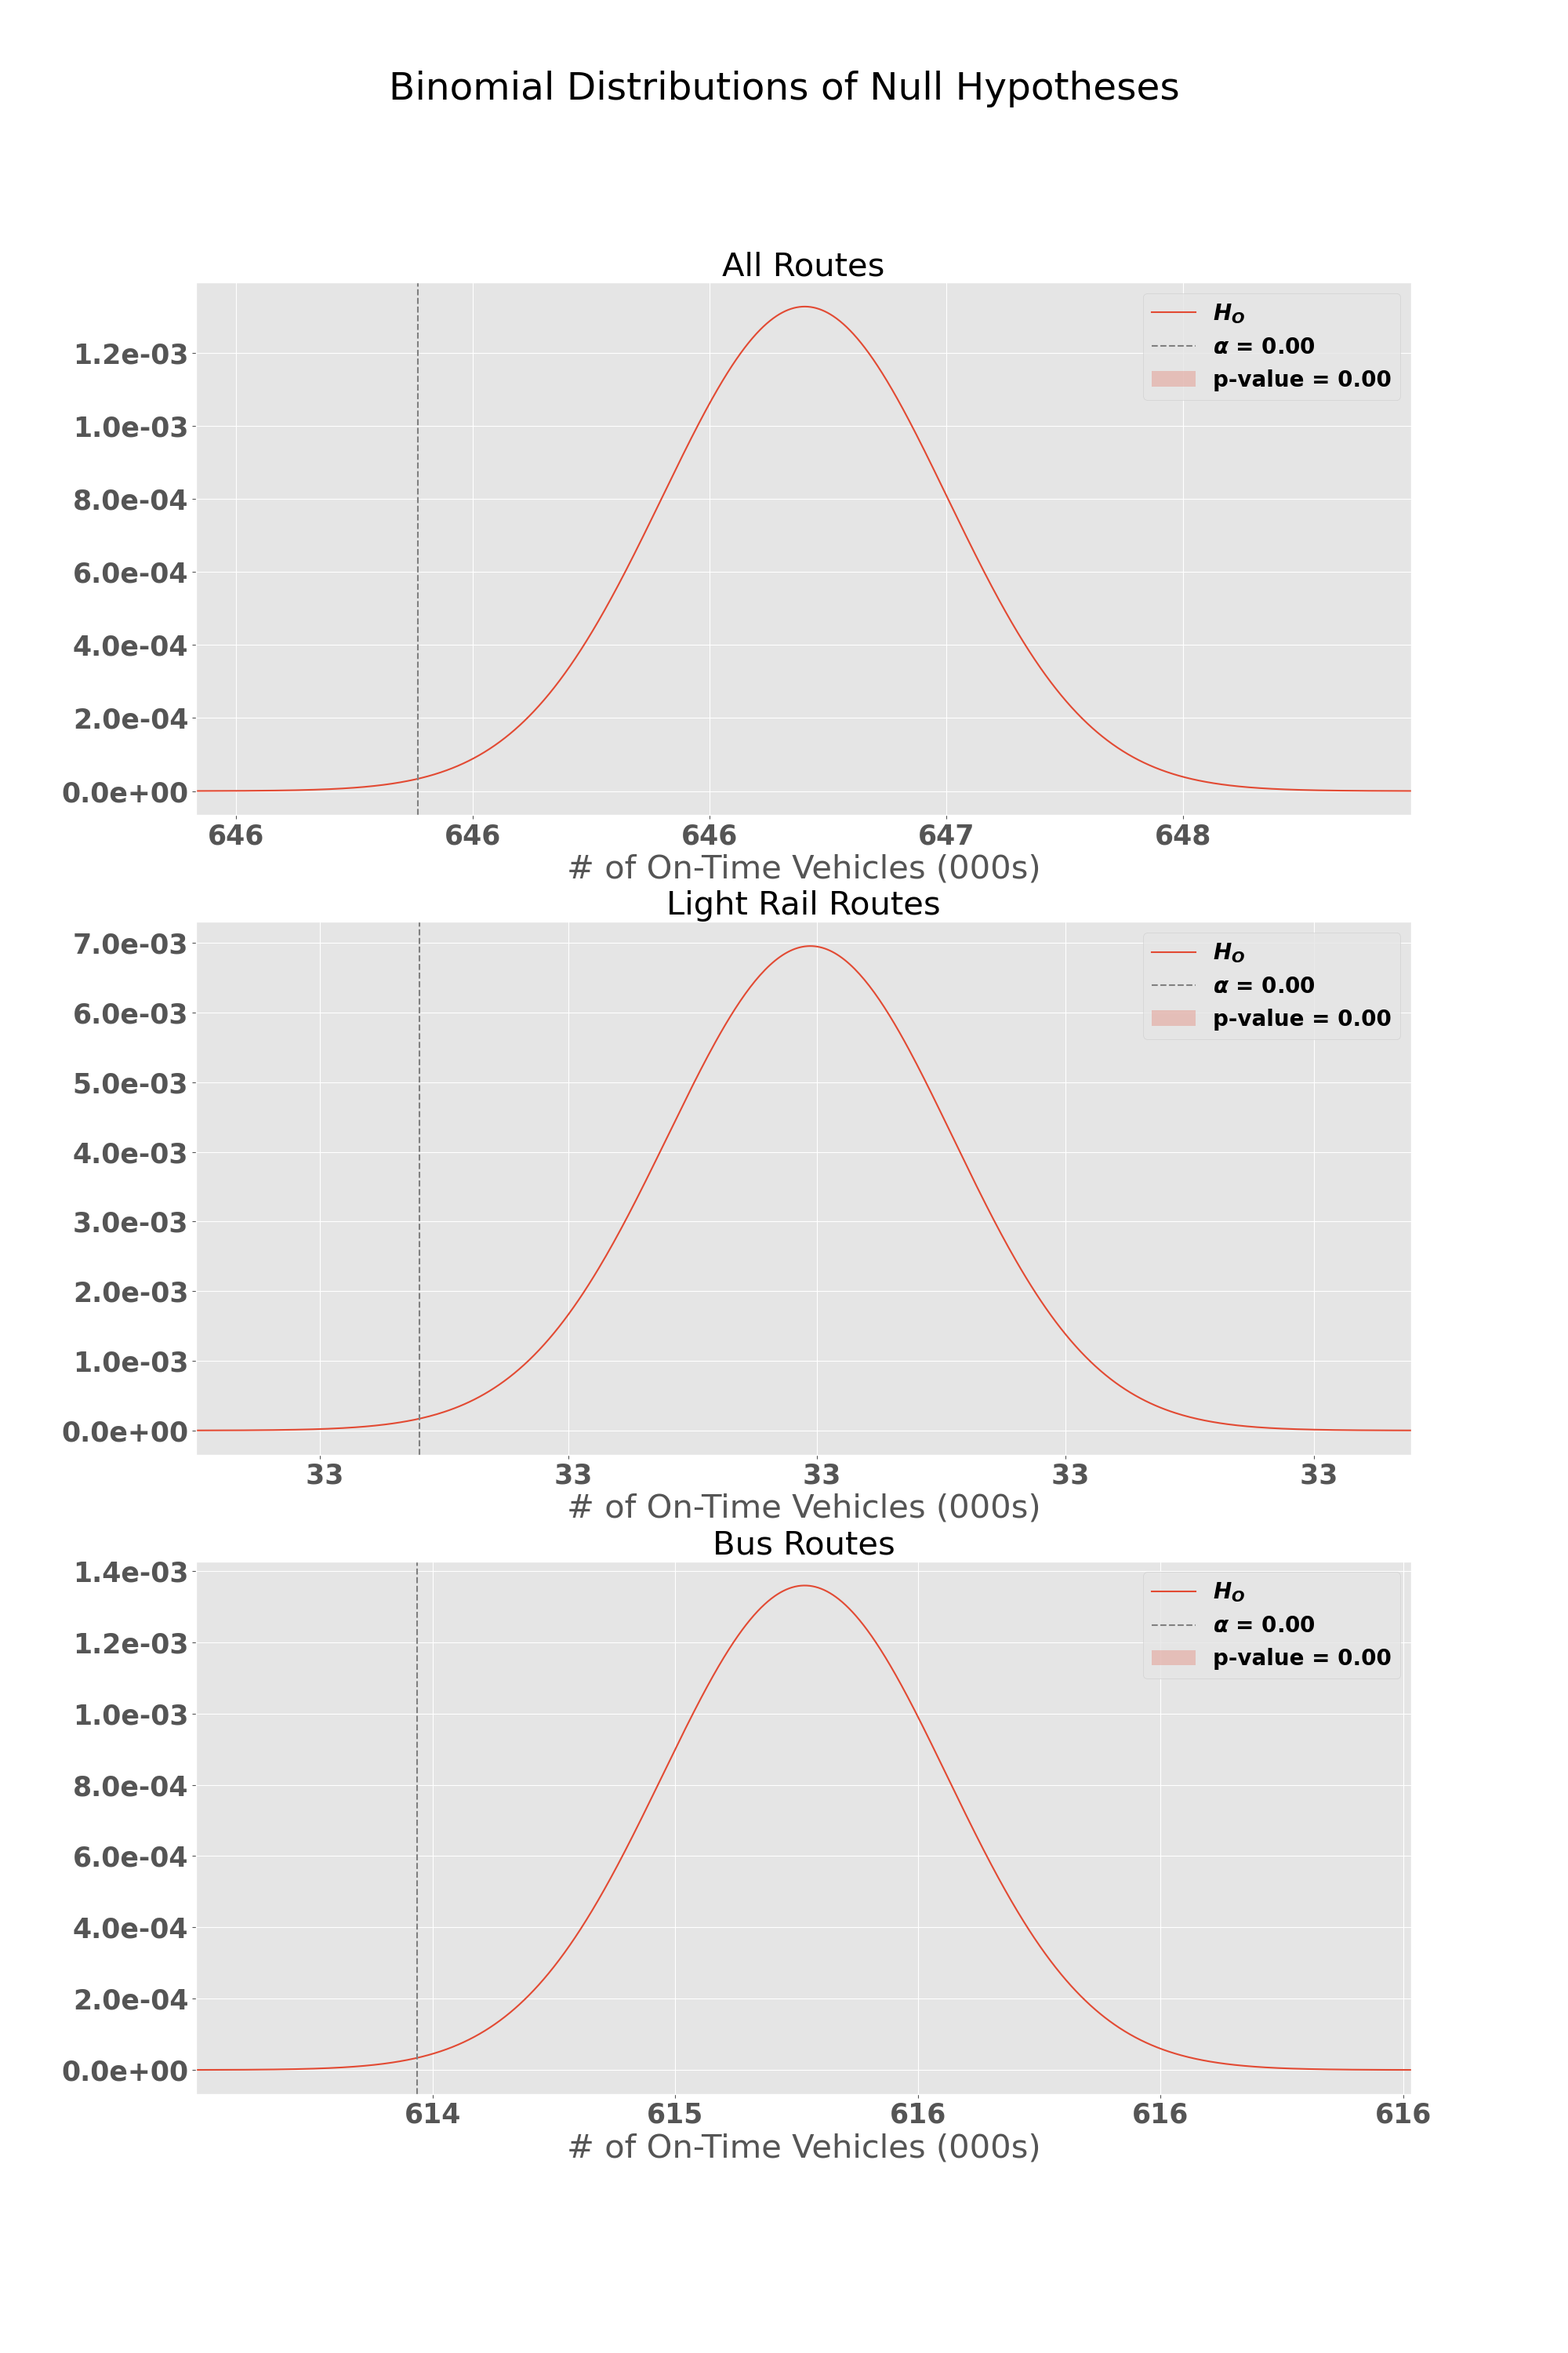
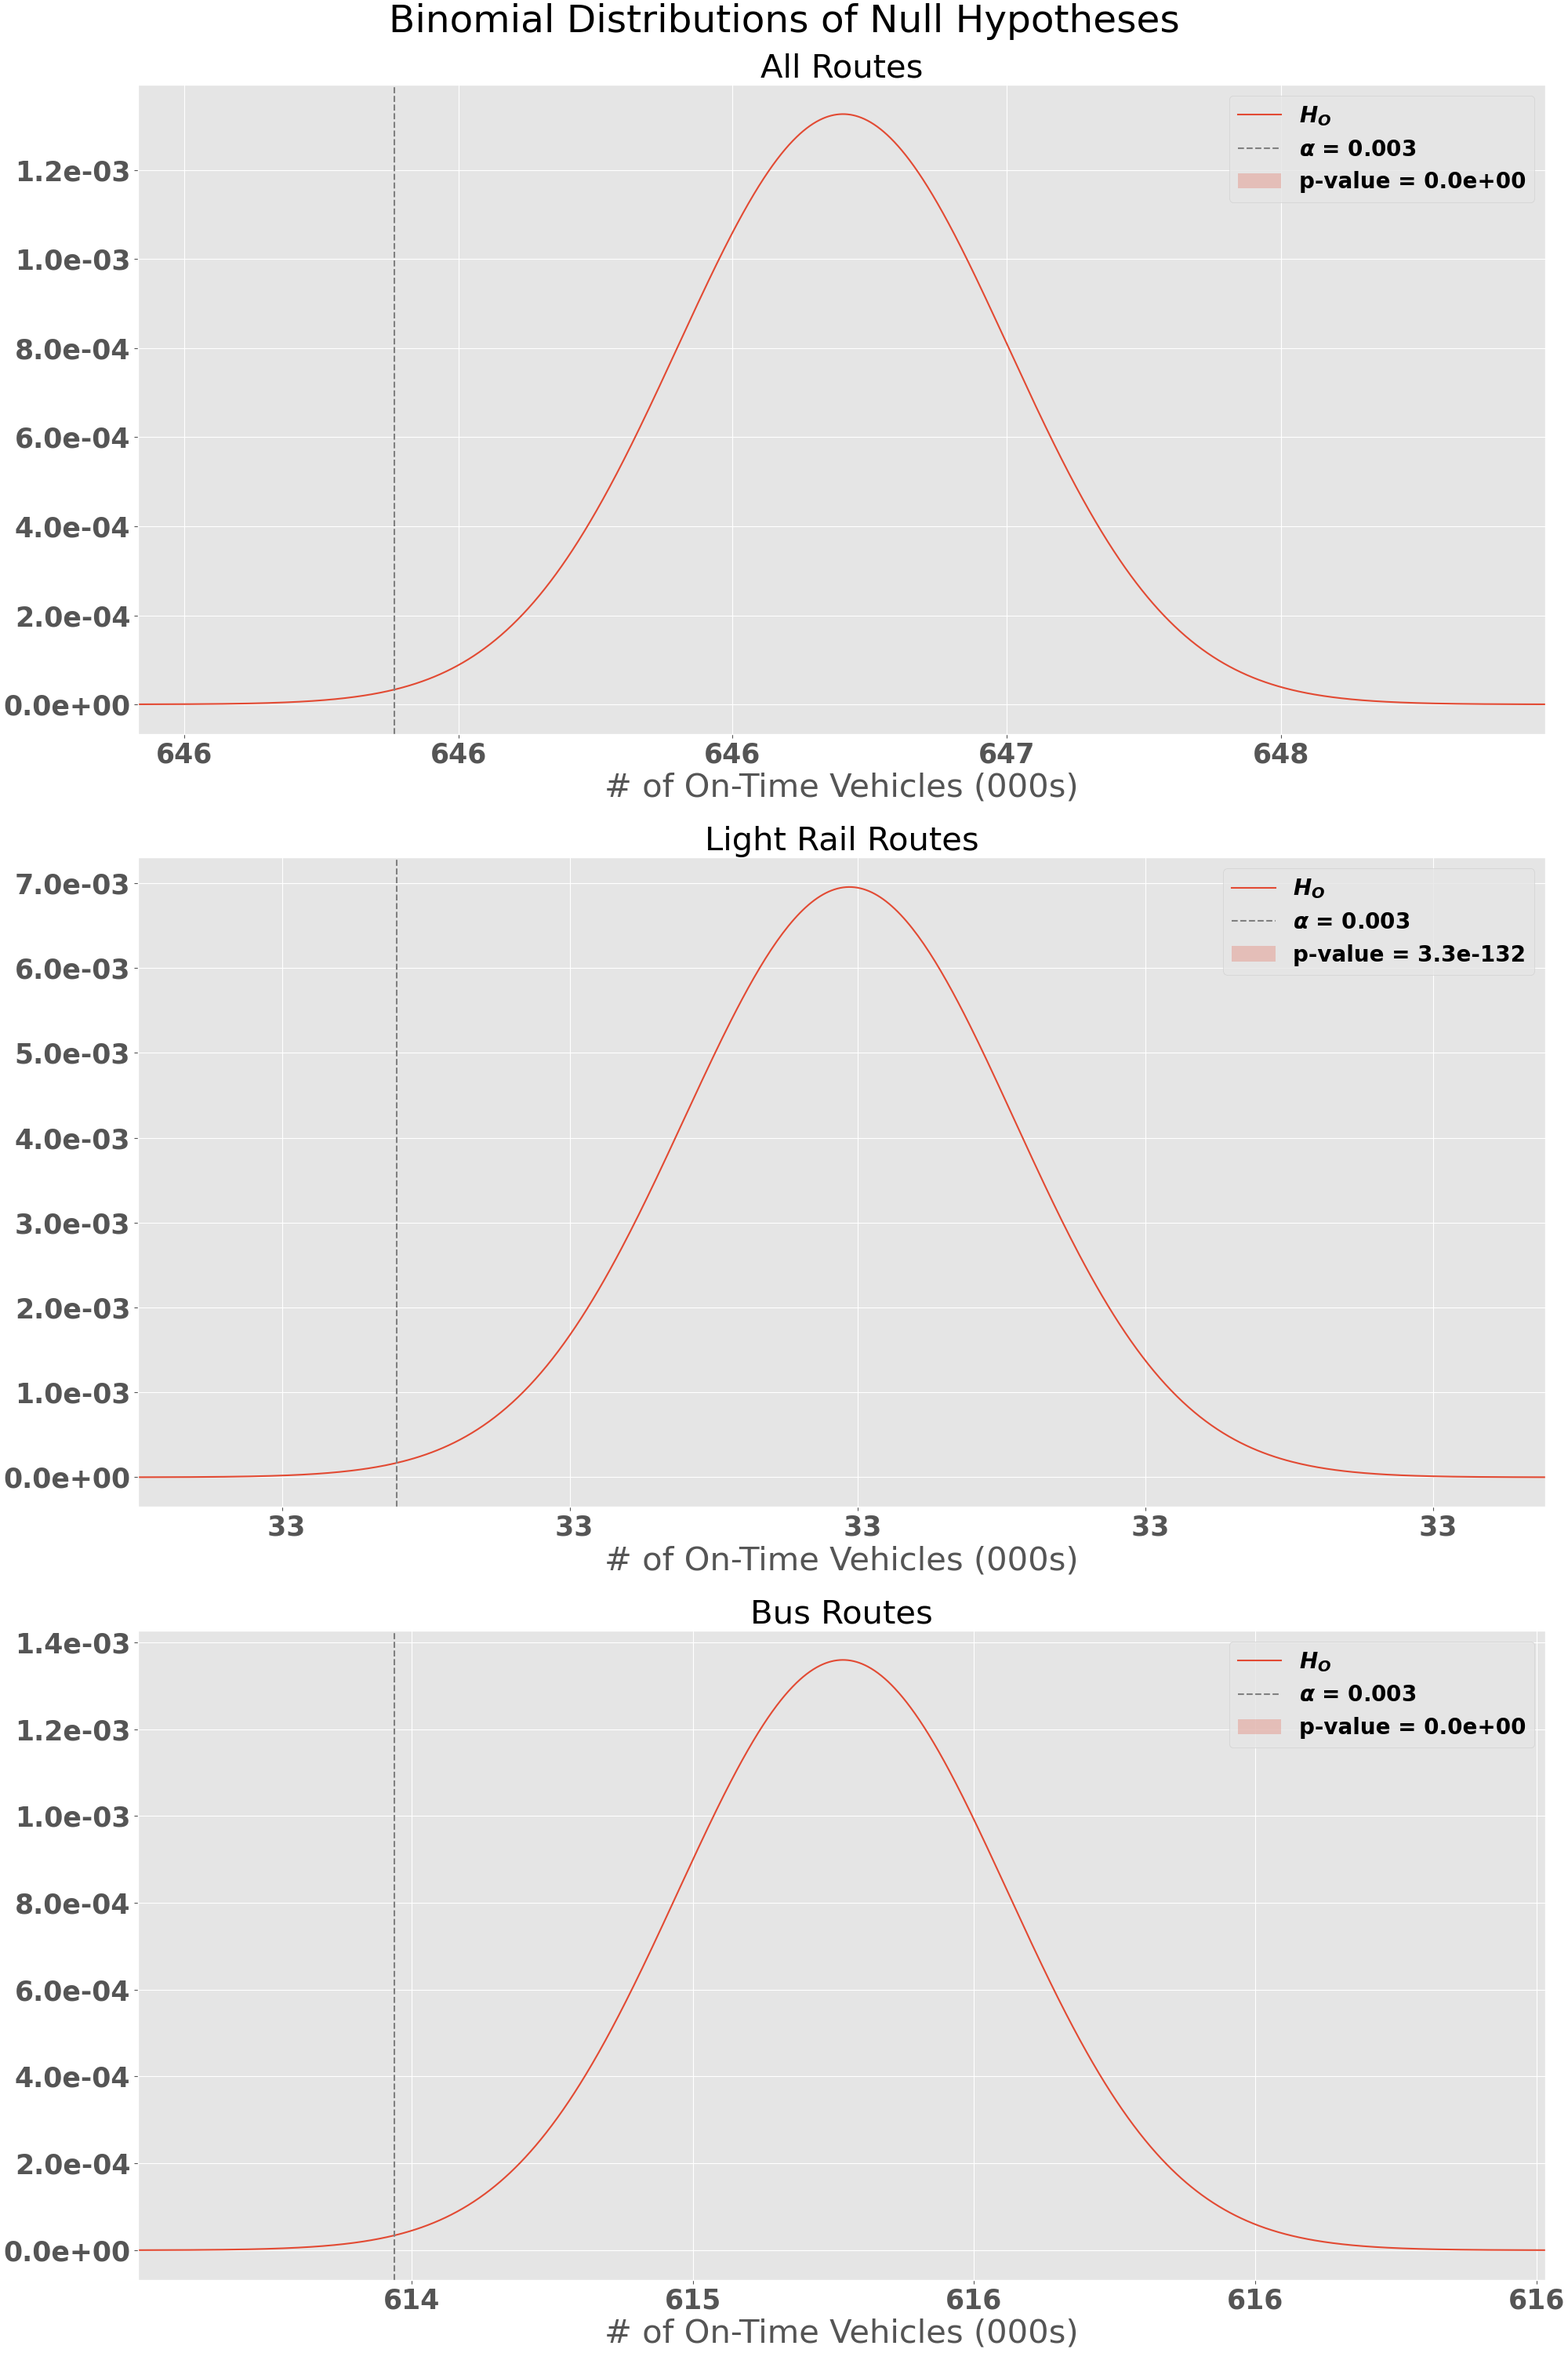
Adjusting graphs for null and alt hypotheses.

diff --git a/src/analyze_rtd_data.py b/src/analyze_rtd_data.py
@@ -59,7 +59,7 @@ class RTD_analyze(object):
             return '%3.0f' % (x/1000)
 
         if (self.route_type == 'All') & ~(self.route_label == 'All'): 
-            graph_fontsize = 20
+            graph_fontsize = 25
         else:
             graph_fontsize = 30
 
@@ -74,12 +74,12 @@ class RTD_analyze(object):
         ax.axvline(null_dist.ppf(alpha_value)
                   ,linestyle='--'
                   ,color='grey'
-                  ,label=f"$\\alpha$ = {alpha_value:.2f}")
+                  ,label=f"$\\alpha$ = {alpha_value:.3f}")
         ax.fill_between(x
                         ,null_dist.pmf(x)
                         ,where= x <= observed_data
                         ,alpha=0.25
-                        ,label=f"p-value = {null_dist.cdf(observed_data):.2f}")
+                        ,label=f"p-value = {null_dist.cdf(observed_data):1.1e}")
         ax.legend(loc='upper right', fontsize=graph_fontsize-10)
         ax.set_xlabel('# of On-Time Vehicles (000s)', fontsize=graph_fontsize)
         if (self.route_type == 'All') & ~(self.route_label == 'All'): 
@@ -157,62 +157,58 @@ if __name__ == '__main__':
     plt.rc('ytick',labelsize=25)
     alpha_value = 0.01/3
     
-    fig, axs = plt.subplots(3,1,figsize=set_figsize)
+    fig, axs = plt.subplots(3,1,figsize=set_figsize, constrained_layout=True)
 
     all_routes.plot_null_hypothesis(ax=axs[0], alpha_value=alpha_value, null_percent=0.86)
     light_rail.plot_null_hypothesis(ax=axs[1], alpha_value=alpha_value, null_percent=0.90)
     bus.plot_null_hypothesis(ax=axs[2], alpha_value=alpha_value, null_percent=0.86)
     fig.suptitle(f"Binomial Distributions of Null Hypotheses"
-                ,fontsize=set_fontsize
-                ,y=0.93)
+                ,fontsize=set_fontsize)
     plt.savefig(f"images/original_null_hypothesis.png")
     
     # Original Alt Hypothesis
-    fig, axs = plt.subplots(3,1,figsize=set_figsize)
+    fig, axs = plt.subplots(3,1,figsize=set_figsize, constrained_layout=True)
     
     all_routes.plot_alt_hypothesis(ax=axs[0], alpha_value=alpha_value, null_percent=0.86)
     light_rail.plot_alt_hypothesis(ax=axs[1], alpha_value=alpha_value, null_percent=0.90)
     bus.plot_alt_hypothesis(ax=axs[2], alpha_value=alpha_value, null_percent=0.86)
     fig.suptitle(f"Binomial Distributions of Null and Alternate Hypotheses"
-                ,fontsize=set_fontsize
-                ,y=0.93)
+                ,fontsize=set_fontsize)
     plt.savefig(f"images/original_alt_hypothesis.png")
 
     # Modified Null Hypothesis
     all_routes_null_p = 0.813
-    light_rail_null_p = 0.865
-    bus_null_p = 0.805
+    light_rail_null_p = 0.868
+    bus_null_p = 0.81
 
-    fig, axs = plt.subplots(3,1,figsize=set_figsize)
+    fig, axs = plt.subplots(3,1,figsize=set_figsize, constrained_layout=True)
     
     all_routes.plot_null_hypothesis(ax=axs[0], alpha_value=alpha_value, null_percent=all_routes_null_p)
     light_rail.plot_null_hypothesis(ax=axs[1], alpha_value=alpha_value, null_percent=light_rail_null_p)
     bus.plot_null_hypothesis(ax=axs[2], alpha_value=alpha_value, null_percent=bus_null_p)
     fig.suptitle(f"Binomial Distributions of Null Hypotheses"
-                ,fontsize=set_fontsize
-                ,y=0.93)
+                ,fontsize=set_fontsize)
     plt.savefig(f"images/modified_null_hypothesis.png")
 
     # Modified Alt Hypothesis
-    fig, axs = plt.subplots(3,1,figsize=set_figsize)
+    fig, axs = plt.subplots(3,1,figsize=set_figsize, constrained_layout=True)
     
     all_routes.plot_alt_hypothesis(ax=axs[0], alpha_value=alpha_value, null_percent=all_routes_null_p)
     light_rail.plot_alt_hypothesis(ax=axs[1], alpha_value=alpha_value, null_percent=light_rail_null_p)
     bus.plot_alt_hypothesis(ax=axs[2], alpha_value=alpha_value, null_percent=bus_null_p)
     fig.suptitle(f"Binomial Distributions of Null and Alternate Hypotheses"
-                ,fontsize=set_fontsize
-                ,y=0.93)
+                ,fontsize=set_fontsize)
     plt.savefig(f"images/modified_alt_hypothesis.png")
 
     # Top 10 Routes
     top_10_routes = list(all_routes.data.groupby('route_short_name').size().sort_values(ascending=False)[0:10].index)
     alpha_value = 0.01/10
-    set_figsize = (15,65)
+    set_figsize = (15,70)
     set_fontsize = 25
     plt.rc('xtick',labelsize=15)
     plt.rc('ytick',labelsize=15)
    
-    fig, axs = plt.subplots(10,1, figsize=set_figsize)
+    fig, axs = plt.subplots(10,1, figsize=set_figsize, constrained_layout=True)
     
     for idx, route in enumerate(top_10_routes):
         route_data = RTD_analyze(rtd_data, route_label=route)
@@ -220,11 +216,10 @@ if __name__ == '__main__':
         route_data.plot_null_hypothesis(ax=axs[idx], alpha_value=alpha_value, null_percent=0.86)
     
     fig.suptitle(f"Binomial Distributions of Null Hypotheses"
-                ,fontsize=set_fontsize
-                ,y=0.9)
+                ,fontsize=set_fontsize)
     plt.savefig(f"images/top_10_routes_null_hypothesis.png")
 
-    fig, axs = plt.subplots(10,1, figsize=set_figsize)
+    fig, axs = plt.subplots(10,1, figsize=set_figsize, constrained_layout=True)
     
     for idx, route in enumerate(top_10_routes):
         route_data = RTD_analyze(rtd_data, route_label=route)
@@ -232,6 +227,5 @@ if __name__ == '__main__':
         route_data.plot_alt_hypothesis(ax=axs[idx], alpha_value=alpha_value, null_percent=0.86)
     
     fig.suptitle(f"Binomial Distributions of Null and Alternate Hypotheses"
-                ,fontsize=set_fontsize
-                ,y=0.9)
+                ,fontsize=set_fontsize)
     plt.savefig(f"images/top_10_routes_alt_hypothesis.png")
